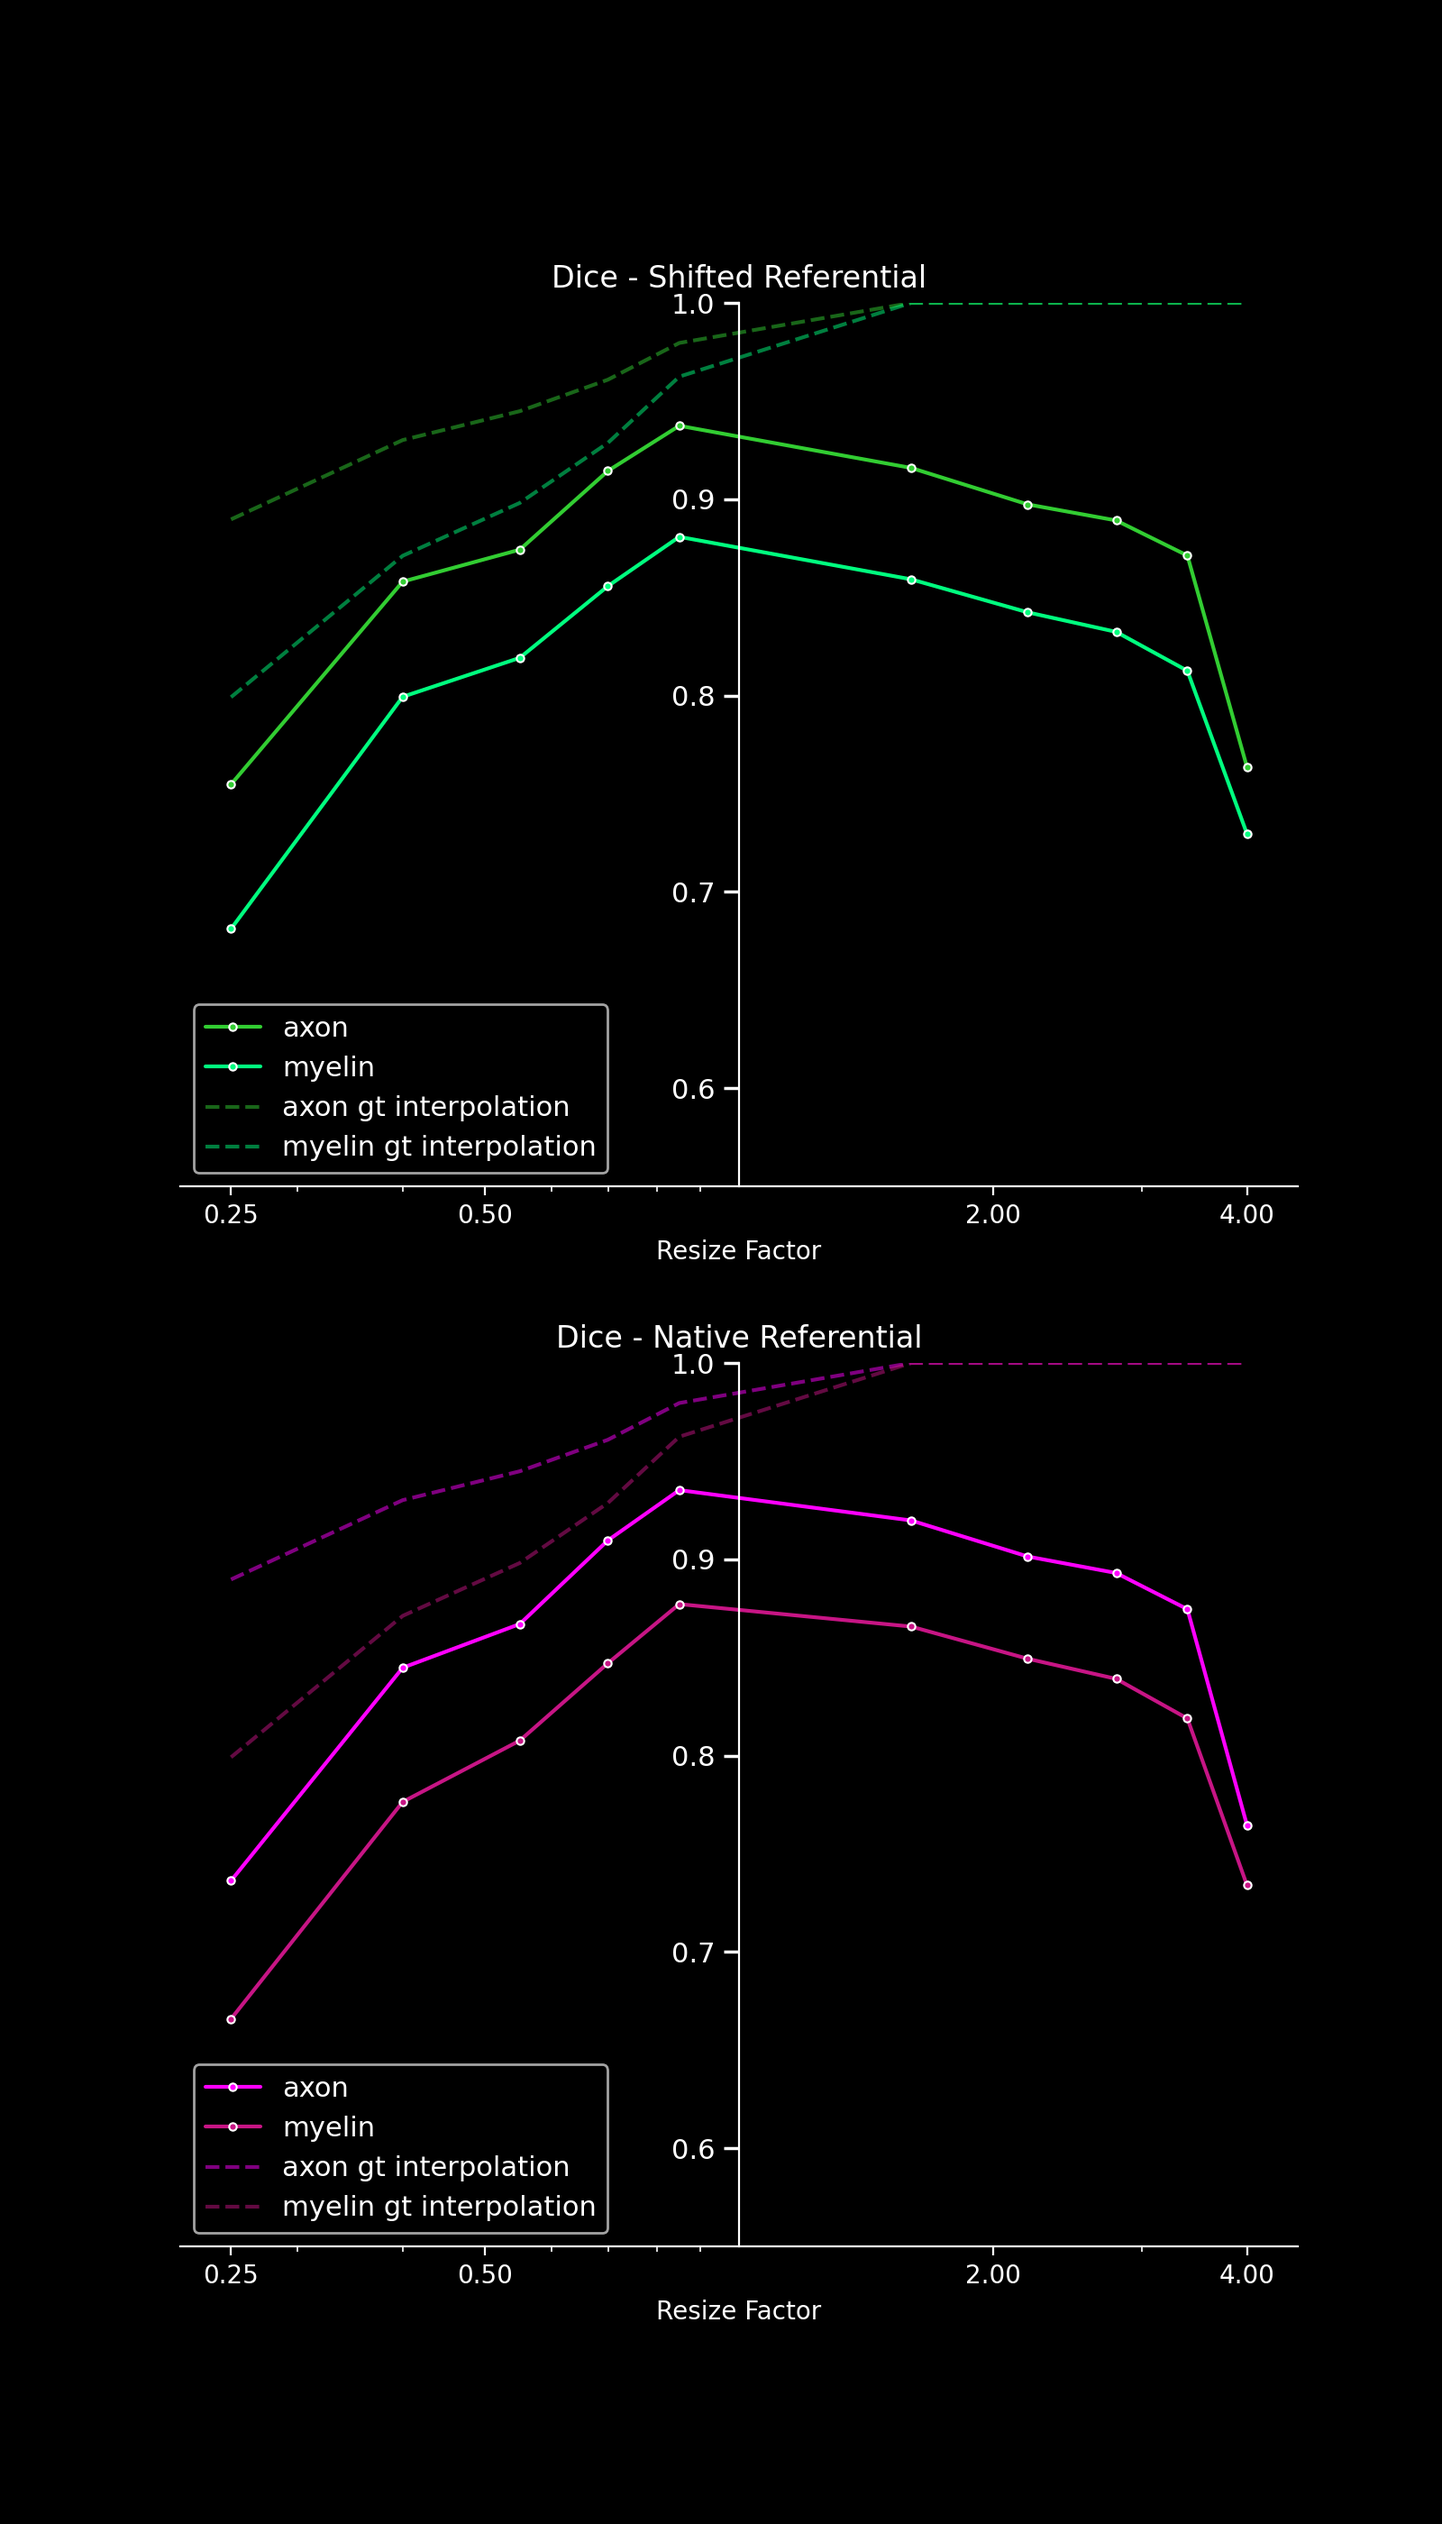
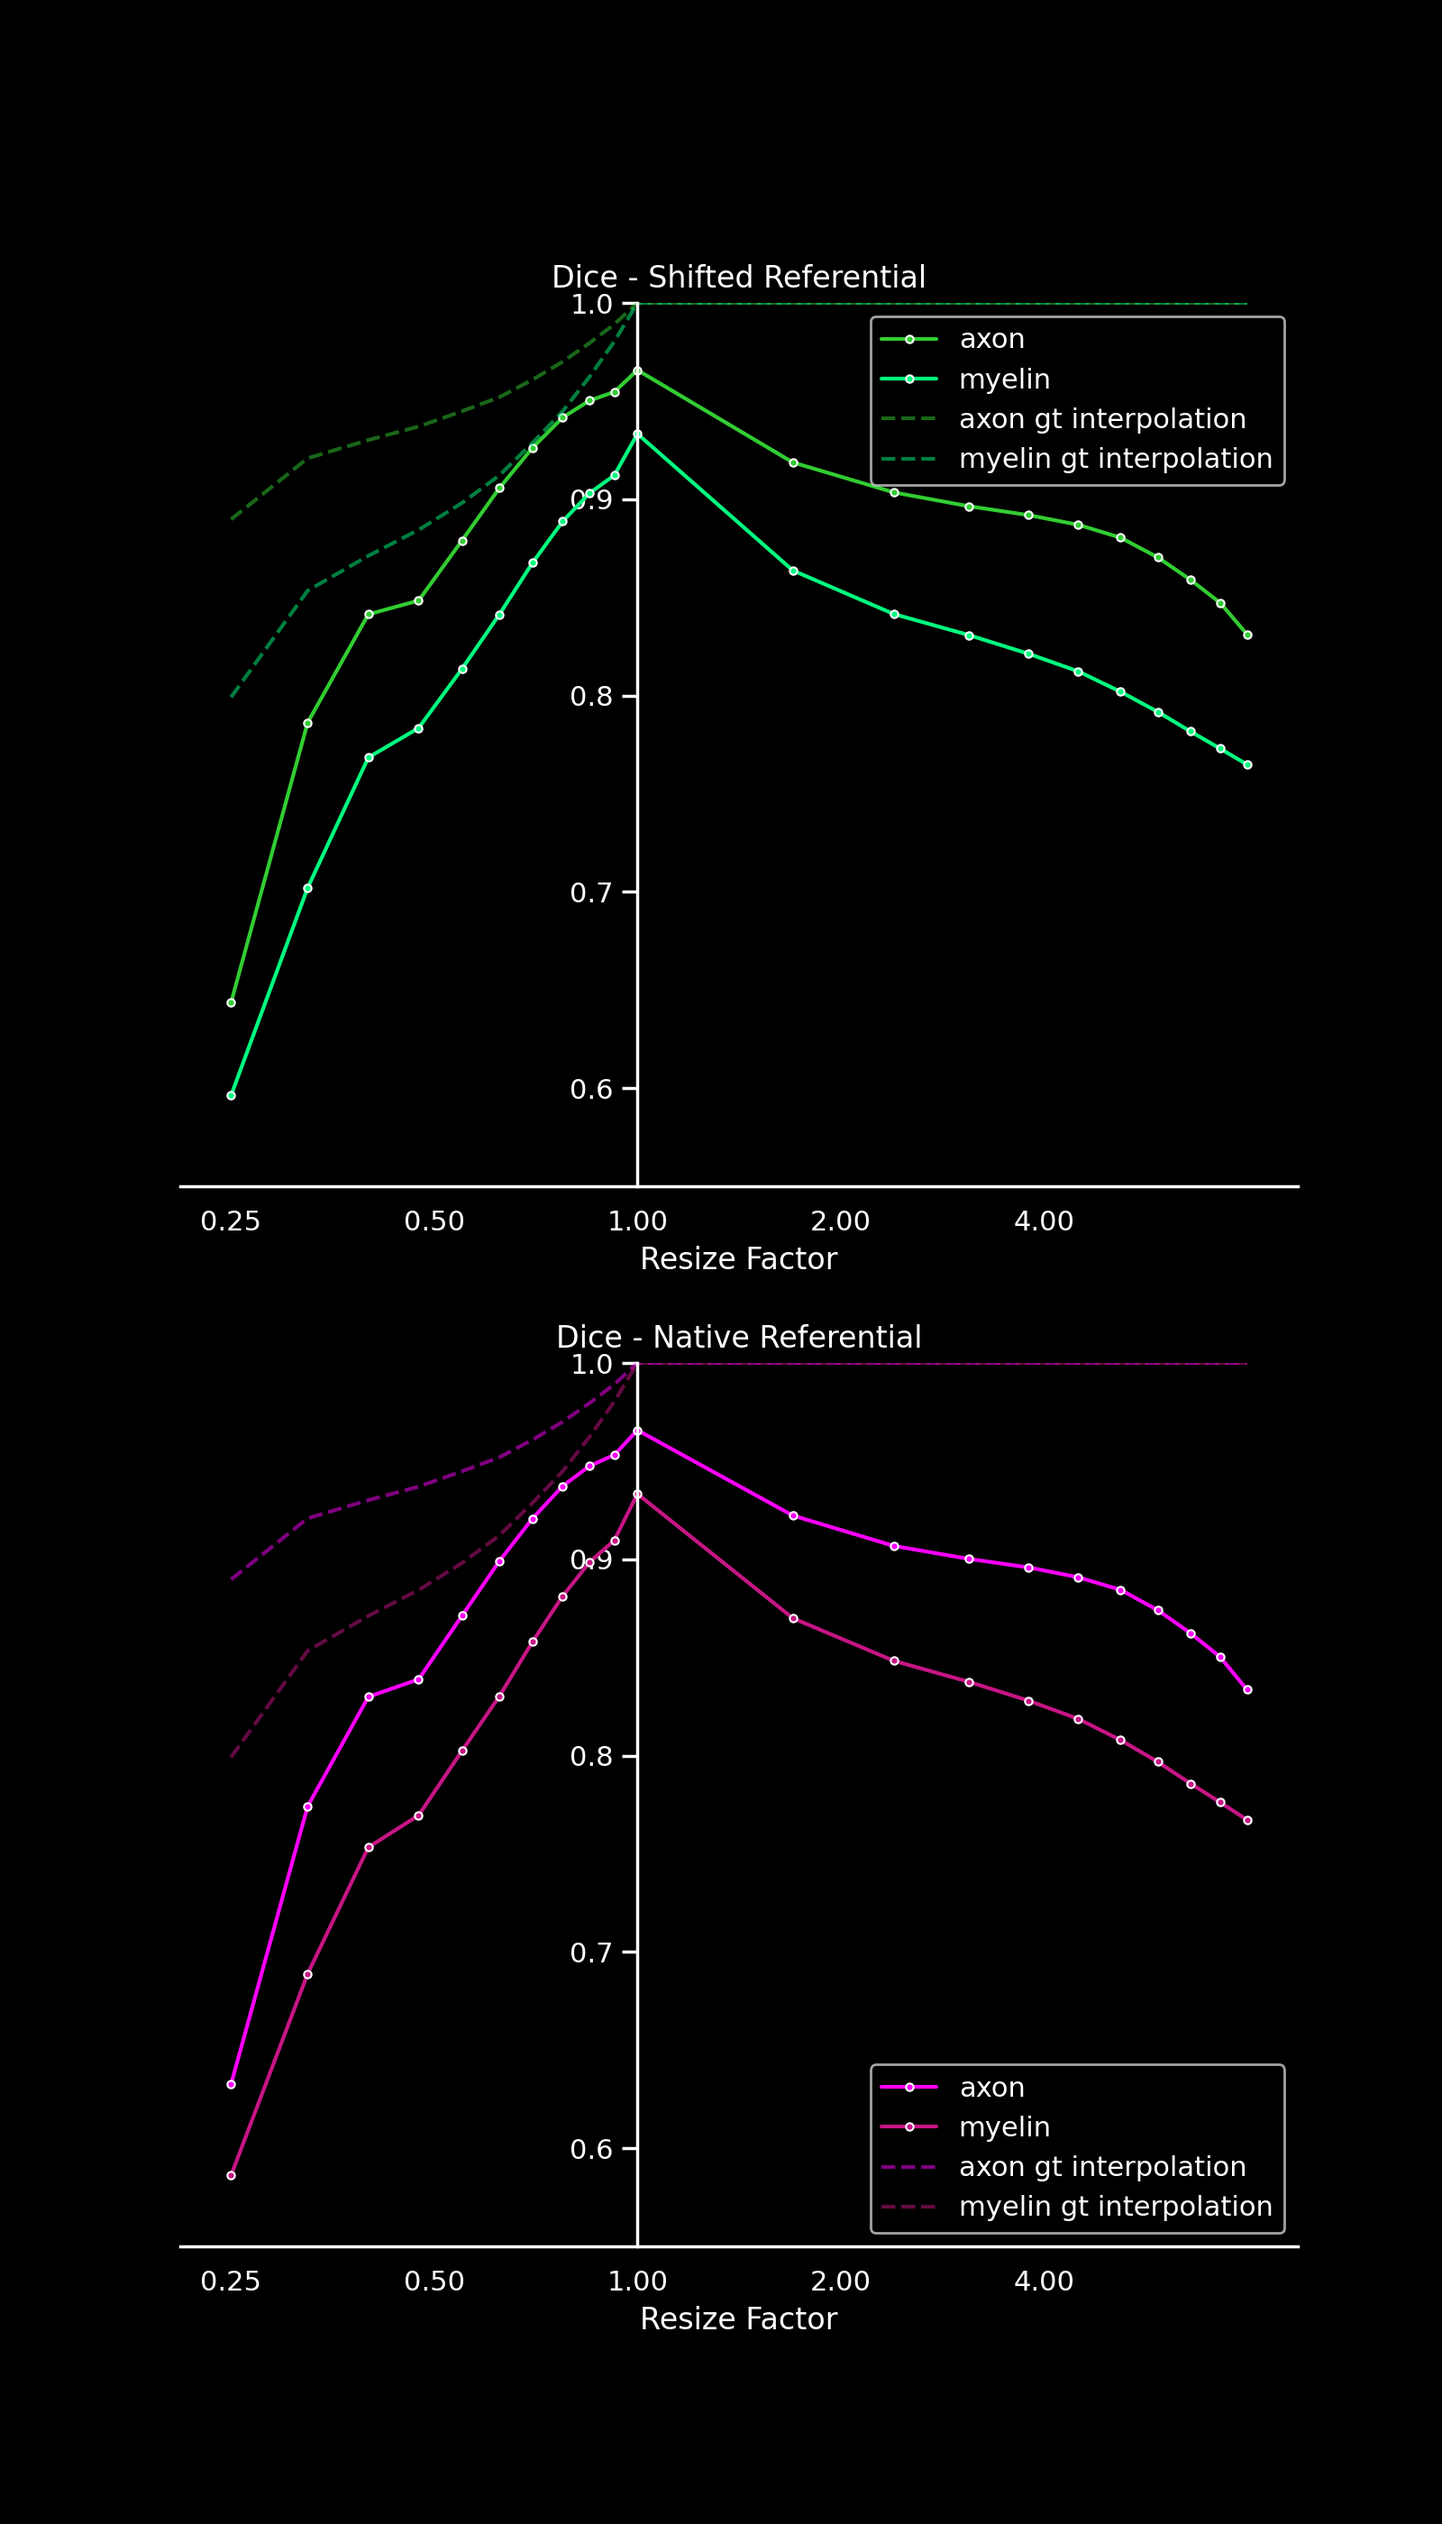
Put emphasis on native resolution in plots

diff --git a/scripts/evaluate_stability.py b/scripts/evaluate_stability.py
@@ -36,9 +36,9 @@ def plot_and_write_results(results_dir):
     
     for ax in axs:
         ax.set_xscale('log')
-        ax.set_xticks([0.25, 0.5, 2, 4])
+        ax.set_xticks([0.25, 0.5, 1.0, 2, 4])
         ax.get_xaxis().set_major_formatter(matplotlib.ticker.ScalarFormatter())
-        ax.spines['left'].set_position('center')
+        ax.spines['left'].set_position(('data', 1))
         ax.yaxis.tick_left()
         ax.set_yticks([0.6, 0.7, 0.8, 0.9, 1])
         ax.set_ylim(0.55, 1)
